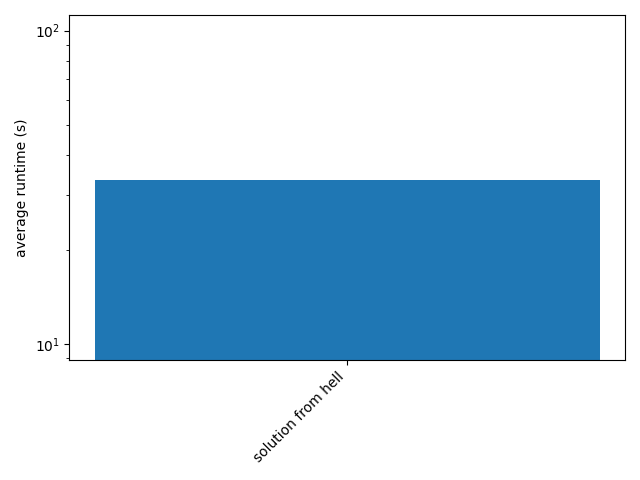
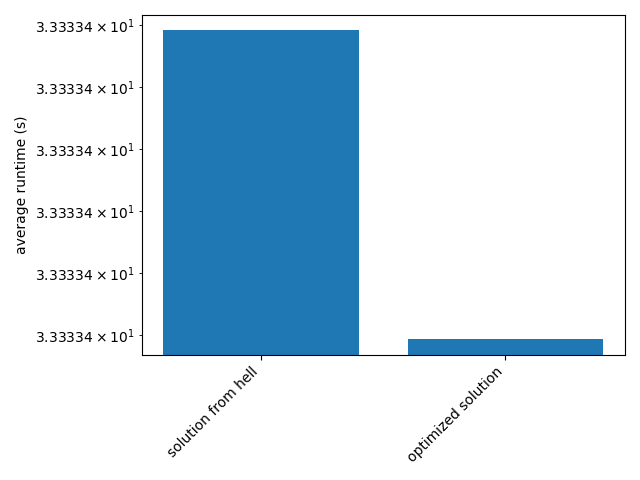
Added the implementation for  suggestionwordstrie which actually works

diff --git a/problems/word_completion/impl.py b/problems/word_completion/impl.py
@@ -80,8 +80,88 @@ class Solution1:
                     return_suggested_words.append([])
                 break
 
-        return return_suggested_words 
+        return return_suggested_words
+
+class node_str:
+    def __init__(self, stringValue: str|None = None, endOfWord: bool = False):
+        self.stringValue = stringValue
+        self.endOfWord = endOfWord
+        self.nextNodes = []
+
+class suggestion_word_trie:
+    def __init__(self):
+        self.root = node_str()
+    
+    def addWord(self, wordToAdd: str):
+        currNode = self.root
+        for idx, charWord in enumerate(wordToAdd):
+            currValue = wordToAdd[:(idx+1)]
+            nextStringsList = [n.stringValue for n in currNode.nextNodes]
+            if currValue not in nextStringsList:
+                newNode = node_str(currValue)
+                currNode.nextNodes.append(newNode)
+                currNode = newNode
+            else:
+                currNode = currNode.nextNodes[nextStringsList.index(currValue)]
+        
+        # make sure that last node has eow=true
+        currNode.endOfWord = True
+    
+    # Order is useless if the products are put in in lexicongrafic order
+    def order(self, node: node_str):
+        interNode = node
+        iterNode.nextNodes.sort(key = lambda n: n.stringValue)
+        for n in iterNode.nextNodes:
+            self.order(n)
+
+    def find_three_words(self, node: node_str) -> List[str]:
+        wordList = []
+        iterNode = node
+        if node.endOfWord:
+            wordList.append(node.stringValue)
+        
+        for n in iterNode.nextNodes:
+            subWords = self.find_three_words(n)
+            for subWord in subWords:
+                wordList.append(subWord)
+                if len(wordList) >= 3:
+                    return wordList
+
+        return wordList
+    
+    # Takes a from_node and a value and returns the node of the next.list 
+    # with that value
+    def return_node_from_node_with_val(self, from_node: node_str,  value: str) -> node_str:
+        for to_node in from_node.nextNodes:
+            if to_node.stringValue == value:
+                return to_node
+        return None
+
+class Solution:
+    def suggestedProducts(self, products: List[str], searchWord: str) -> List[List[str]]:
+        products.sort()
+        trie = suggestion_word_trie()
+
+        # Add all the words to the trie
+        for product in products:
+            trie.addWord(product)
+
+        # Go through the trie, at each node (or tipped character)
+        # suggest 3 possible completions
+        # if no completion possible return []
+        node_iter = trie.root
+        suggested_word_per_char = [[] for _ in range(len(searchWord))]
+        for idx, charWord in enumerate(searchWord):
+            currValue = searchWord[:(idx+1)]
+            node_iter = trie.return_node_from_node_with_val(node_iter, currValue)
+            if node_iter is not None:
+                suggested_word_per_char[idx] = trie.find_three_words(node_iter)
+            else:
+                return suggested_word_per_char
+        
+        return suggested_word_per_char
 
 SOLUTIONS = {
     "solution from hell": lambda args: Solution1.suggestedProducts(*args),
+    "optimized solution": lambda args: Solution().suggestedProducts(*args),
 }
